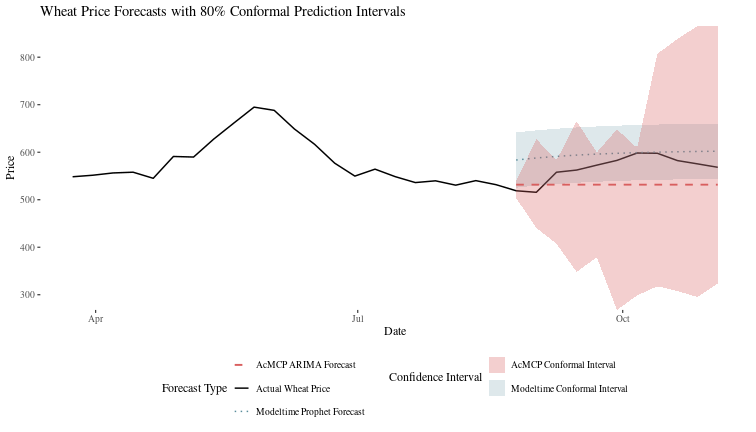
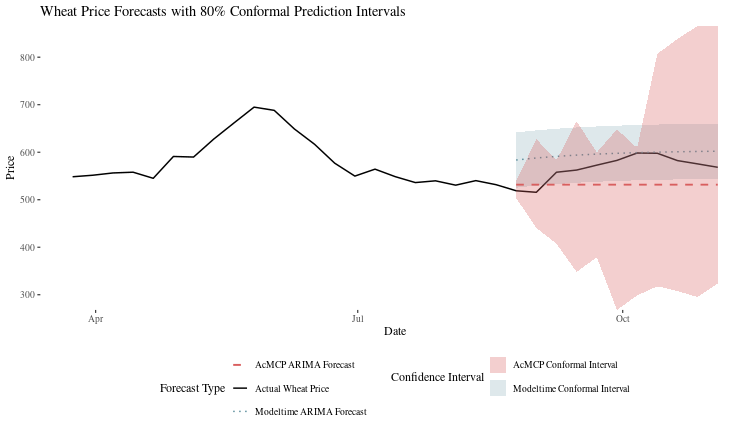
yeehaw

diff --git a/basics-of-conformal-prediction-in-time-series-data.html b/basics-of-conformal-prediction-in-time-series-data.html
@@ -653,7 +653,7 @@ $$</div>
 
 <span class="nf">ggplot</span><span class="p">(</span><span class="n">forecast_comparison_df_2</span><span class="p">,</span><span class="w"> </span><span class="nf">aes</span><span class="p">(</span><span class="n">x</span><span class="w"> </span><span class="o">=</span><span class="w"> </span><span class="n">date</span><span class="p">))</span><span class="w"> </span><span class="o">+</span>
 <span class="w">  </span><span class="nf">geom_line</span><span class="p">(</span><span class="nf">aes</span><span class="p">(</span><span class="n">y</span><span class="w"> </span><span class="o">=</span><span class="w"> </span><span class="n">Wheat</span><span class="p">,</span><span class="w"> </span><span class="n">color</span><span class="w"> </span><span class="o">=</span><span class="w"> </span><span class="s">&quot;Actual Wheat Price&quot;</span><span class="p">),</span><span class="w"> </span><span class="n">size</span><span class="w"> </span><span class="o">=</span><span class="w"> </span><span class="m">0.7</span><span class="p">)</span><span class="w"> </span><span class="o">+</span>
-<span class="w">  </span><span class="nf">geom_line</span><span class="p">(</span><span class="nf">aes</span><span class="p">(</span><span class="n">y</span><span class="w"> </span><span class="o">=</span><span class="w"> </span><span class="n">modeltime_forecast</span><span class="p">,</span><span class="w"> </span><span class="n">color</span><span class="w"> </span><span class="o">=</span><span class="w"> </span><span class="s">&quot;Modeltime Prophet Forecast&quot;</span><span class="p">),</span><span class="w"> </span>
+<span class="w">  </span><span class="nf">geom_line</span><span class="p">(</span><span class="nf">aes</span><span class="p">(</span><span class="n">y</span><span class="w"> </span><span class="o">=</span><span class="w"> </span><span class="n">modeltime_forecast</span><span class="p">,</span><span class="w"> </span><span class="n">color</span><span class="w"> </span><span class="o">=</span><span class="w"> </span><span class="s">&quot;Modeltime ARIMA Forecast&quot;</span><span class="p">),</span><span class="w"> </span>
 <span class="w">            </span><span class="n">linetype</span><span class="w"> </span><span class="o">=</span><span class="w"> </span><span class="s">&quot;dotted&quot;</span><span class="p">,</span><span class="w"> </span><span class="n">size</span><span class="w"> </span><span class="o">=</span><span class="w"> </span><span class="m">0.7</span><span class="p">)</span><span class="w"> </span><span class="o">+</span>
 <span class="w">  </span><span class="nf">geom_ribbon</span><span class="p">(</span><span class="nf">aes</span><span class="p">(</span><span class="n">ymin</span><span class="w"> </span><span class="o">=</span><span class="w"> </span><span class="n">modeltime_lower</span><span class="p">,</span><span class="w"> </span><span class="n">ymax</span><span class="w"> </span><span class="o">=</span><span class="w"> </span><span class="n">modeltime_upper</span><span class="p">,</span><span class="w"> </span>
 <span class="w">                  </span><span class="n">fill</span><span class="w"> </span><span class="o">=</span><span class="w"> </span><span class="s">&quot;Modeltime Conformal Interval&quot;</span><span class="p">),</span><span class="w"> </span><span class="n">alpha</span><span class="w"> </span><span class="o">=</span><span class="w"> </span><span class="m">0.2</span><span class="p">)</span><span class="w"> </span><span class="o">+</span>
@@ -663,7 +663,7 @@ $$</div>
 <span class="w">                  </span><span class="n">fill</span><span class="w"> </span><span class="o">=</span><span class="w"> </span><span class="s">&quot;AcMCP Conformal Interval&quot;</span><span class="p">),</span><span class="w"> </span><span class="n">alpha</span><span class="w"> </span><span class="o">=</span><span class="w"> </span><span class="m">0.3</span><span class="p">)</span><span class="w"> </span><span class="o">+</span>
 <span class="w">  </span><span class="nf">scale_color_manual</span><span class="p">(</span>
 <span class="w">    </span><span class="n">values</span><span class="w"> </span><span class="o">=</span><span class="w"> </span><span class="nf">c</span><span class="p">(</span>
-<span class="w">      </span><span class="s">&quot;Actual Wheat Price&quot;</span><span class="w"> </span><span class="o">=</span><span class="w"> </span><span class="s">&quot;black&quot;</span><span class="p">,</span><span class="s">&quot;Modeltime Prophet Forecast&quot;</span><span class="w"> </span><span class="o">=</span><span class="w"> </span><span class="s">&quot;#5A8D9B&quot;</span><span class="p">,</span><span class="w"> </span><span class="s">&quot;AcMCP ARIMA Forecast&quot;</span><span class="w"> </span><span class="o">=</span><span class="w"> </span><span class="s">&quot;#D95F5F&quot;</span>
+<span class="w">      </span><span class="s">&quot;Actual Wheat Price&quot;</span><span class="w"> </span><span class="o">=</span><span class="w"> </span><span class="s">&quot;black&quot;</span><span class="p">,</span><span class="s">&quot;Modeltime ARIMA Forecast&quot;</span><span class="w"> </span><span class="o">=</span><span class="w"> </span><span class="s">&quot;#5A8D9B&quot;</span><span class="p">,</span><span class="w"> </span><span class="s">&quot;AcMCP ARIMA Forecast&quot;</span><span class="w"> </span><span class="o">=</span><span class="w"> </span><span class="s">&quot;#D95F5F&quot;</span>
 <span class="w">    </span><span class="p">)</span>
 <span class="w">  </span><span class="p">)</span><span class="w"> </span><span class="o">+</span>
 <span class="w">  </span><span class="nf">scale_fill_manual</span><span class="p">(</span>

diff --git a/output/basics-of-conformal-prediction-in-time-series-data.html b/output/basics-of-conformal-prediction-in-time-series-data.html
@@ -653,7 +653,7 @@ $$</div>
 
 <span class="nf">ggplot</span><span class="p">(</span><span class="n">forecast_comparison_df_2</span><span class="p">,</span><span class="w"> </span><span class="nf">aes</span><span class="p">(</span><span class="n">x</span><span class="w"> </span><span class="o">=</span><span class="w"> </span><span class="n">date</span><span class="p">))</span><span class="w"> </span><span class="o">+</span>
 <span class="w">  </span><span class="nf">geom_line</span><span class="p">(</span><span class="nf">aes</span><span class="p">(</span><span class="n">y</span><span class="w"> </span><span class="o">=</span><span class="w"> </span><span class="n">Wheat</span><span class="p">,</span><span class="w"> </span><span class="n">color</span><span class="w"> </span><span class="o">=</span><span class="w"> </span><span class="s">&quot;Actual Wheat Price&quot;</span><span class="p">),</span><span class="w"> </span><span class="n">size</span><span class="w"> </span><span class="o">=</span><span class="w"> </span><span class="m">0.7</span><span class="p">)</span><span class="w"> </span><span class="o">+</span>
-<span class="w">  </span><span class="nf">geom_line</span><span class="p">(</span><span class="nf">aes</span><span class="p">(</span><span class="n">y</span><span class="w"> </span><span class="o">=</span><span class="w"> </span><span class="n">modeltime_forecast</span><span class="p">,</span><span class="w"> </span><span class="n">color</span><span class="w"> </span><span class="o">=</span><span class="w"> </span><span class="s">&quot;Modeltime Prophet Forecast&quot;</span><span class="p">),</span><span class="w"> </span>
+<span class="w">  </span><span class="nf">geom_line</span><span class="p">(</span><span class="nf">aes</span><span class="p">(</span><span class="n">y</span><span class="w"> </span><span class="o">=</span><span class="w"> </span><span class="n">modeltime_forecast</span><span class="p">,</span><span class="w"> </span><span class="n">color</span><span class="w"> </span><span class="o">=</span><span class="w"> </span><span class="s">&quot;Modeltime ARIMA Forecast&quot;</span><span class="p">),</span><span class="w"> </span>
 <span class="w">            </span><span class="n">linetype</span><span class="w"> </span><span class="o">=</span><span class="w"> </span><span class="s">&quot;dotted&quot;</span><span class="p">,</span><span class="w"> </span><span class="n">size</span><span class="w"> </span><span class="o">=</span><span class="w"> </span><span class="m">0.7</span><span class="p">)</span><span class="w"> </span><span class="o">+</span>
 <span class="w">  </span><span class="nf">geom_ribbon</span><span class="p">(</span><span class="nf">aes</span><span class="p">(</span><span class="n">ymin</span><span class="w"> </span><span class="o">=</span><span class="w"> </span><span class="n">modeltime_lower</span><span class="p">,</span><span class="w"> </span><span class="n">ymax</span><span class="w"> </span><span class="o">=</span><span class="w"> </span><span class="n">modeltime_upper</span><span class="p">,</span><span class="w"> </span>
 <span class="w">                  </span><span class="n">fill</span><span class="w"> </span><span class="o">=</span><span class="w"> </span><span class="s">&quot;Modeltime Conformal Interval&quot;</span><span class="p">),</span><span class="w"> </span><span class="n">alpha</span><span class="w"> </span><span class="o">=</span><span class="w"> </span><span class="m">0.2</span><span class="p">)</span><span class="w"> </span><span class="o">+</span>
@@ -663,7 +663,7 @@ $$</div>
 <span class="w">                  </span><span class="n">fill</span><span class="w"> </span><span class="o">=</span><span class="w"> </span><span class="s">&quot;AcMCP Conformal Interval&quot;</span><span class="p">),</span><span class="w"> </span><span class="n">alpha</span><span class="w"> </span><span class="o">=</span><span class="w"> </span><span class="m">0.3</span><span class="p">)</span><span class="w"> </span><span class="o">+</span>
 <span class="w">  </span><span class="nf">scale_color_manual</span><span class="p">(</span>
 <span class="w">    </span><span class="n">values</span><span class="w"> </span><span class="o">=</span><span class="w"> </span><span class="nf">c</span><span class="p">(</span>
-<span class="w">      </span><span class="s">&quot;Actual Wheat Price&quot;</span><span class="w"> </span><span class="o">=</span><span class="w"> </span><span class="s">&quot;black&quot;</span><span class="p">,</span><span class="s">&quot;Modeltime Prophet Forecast&quot;</span><span class="w"> </span><span class="o">=</span><span class="w"> </span><span class="s">&quot;#5A8D9B&quot;</span><span class="p">,</span><span class="w"> </span><span class="s">&quot;AcMCP ARIMA Forecast&quot;</span><span class="w"> </span><span class="o">=</span><span class="w"> </span><span class="s">&quot;#D95F5F&quot;</span>
+<span class="w">      </span><span class="s">&quot;Actual Wheat Price&quot;</span><span class="w"> </span><span class="o">=</span><span class="w"> </span><span class="s">&quot;black&quot;</span><span class="p">,</span><span class="s">&quot;Modeltime ARIMA Forecast&quot;</span><span class="w"> </span><span class="o">=</span><span class="w"> </span><span class="s">&quot;#5A8D9B&quot;</span><span class="p">,</span><span class="w"> </span><span class="s">&quot;AcMCP ARIMA Forecast&quot;</span><span class="w"> </span><span class="o">=</span><span class="w"> </span><span class="s">&quot;#D95F5F&quot;</span>
 <span class="w">    </span><span class="p">)</span>
 <span class="w">  </span><span class="p">)</span><span class="w"> </span><span class="o">+</span>
 <span class="w">  </span><span class="nf">scale_fill_manual</span><span class="p">(</span>

diff --git a/content/blogs/data_sci_tech/tsbasics.md b/content/blogs/data_sci_tech/tsbasics.md
@@ -594,7 +594,7 @@ forecast_comparison_df_2 <- bind_rows(
 
 ggplot(forecast_comparison_df_2, aes(x = date)) +
   geom_line(aes(y = Wheat, color = "Actual Wheat Price"), size = 0.7) +
-  geom_line(aes(y = modeltime_forecast, color = "Modeltime Prophet Forecast"), 
+  geom_line(aes(y = modeltime_forecast, color = "Modeltime ARIMA Forecast"), 
             linetype = "dotted", size = 0.7) +
   geom_ribbon(aes(ymin = modeltime_lower, ymax = modeltime_upper, 
                   fill = "Modeltime Conformal Interval"), alpha = 0.2) +
@@ -604,7 +604,7 @@ ggplot(forecast_comparison_df_2, aes(x = date)) +
                   fill = "AcMCP Conformal Interval"), alpha = 0.3) +
   scale_color_manual(
     values = c(
-      "Actual Wheat Price" = "black","Modeltime Prophet Forecast" = "#5A8D9B", "AcMCP ARIMA Forecast" = "#D95F5F"
+      "Actual Wheat Price" = "black","Modeltime ARIMA Forecast" = "#5A8D9B", "AcMCP ARIMA Forecast" = "#D95F5F"
     )
   ) +
   scale_fill_manual(
